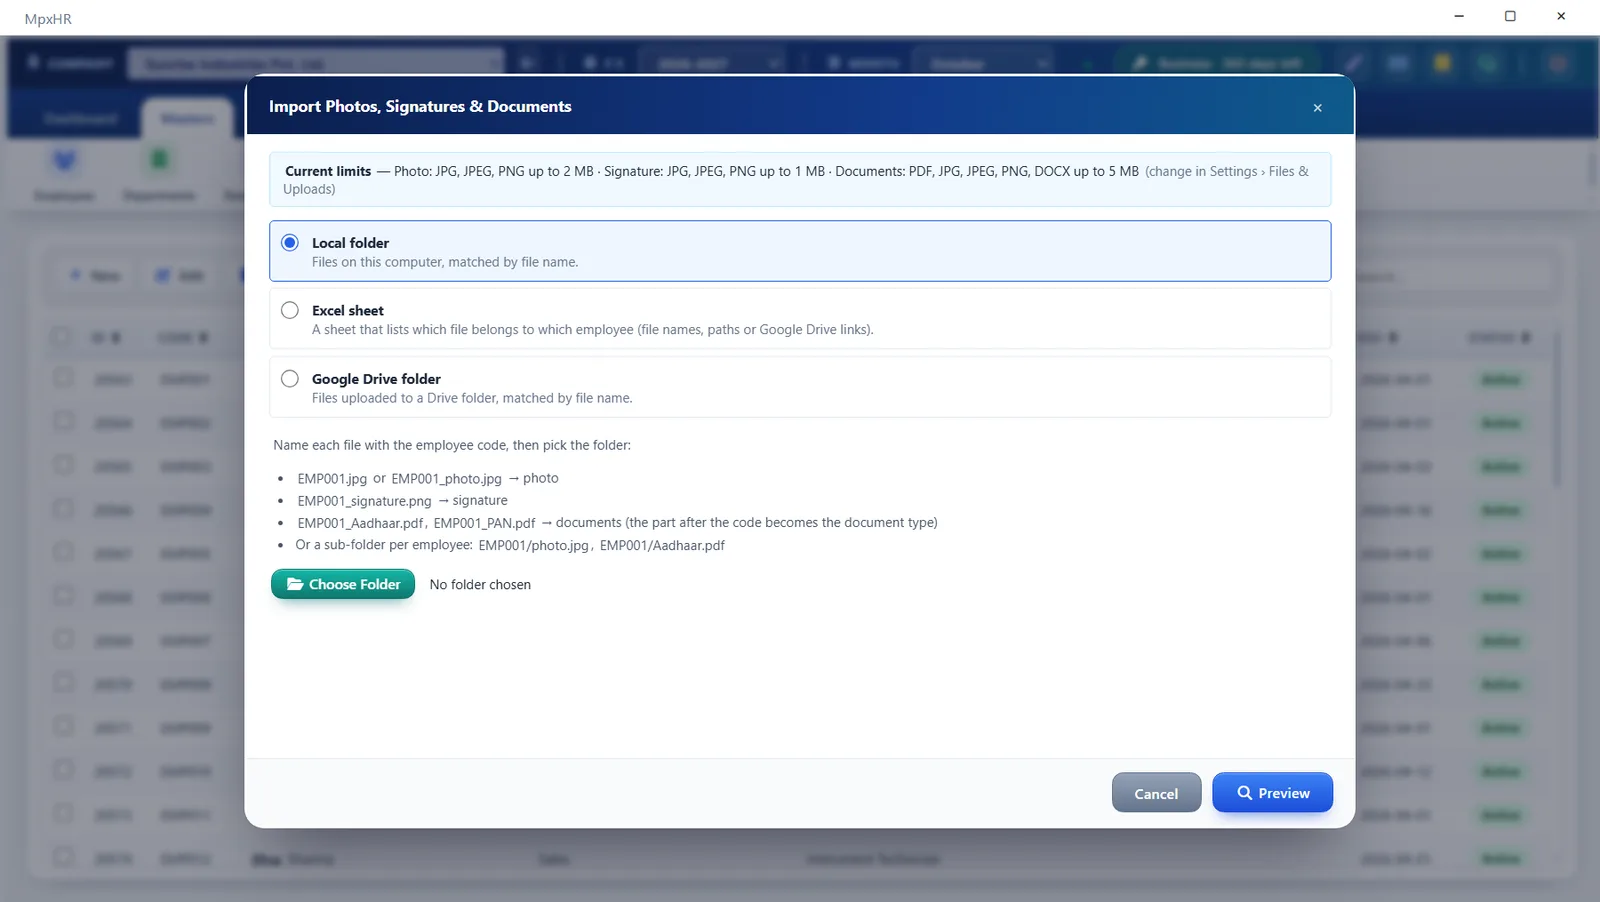
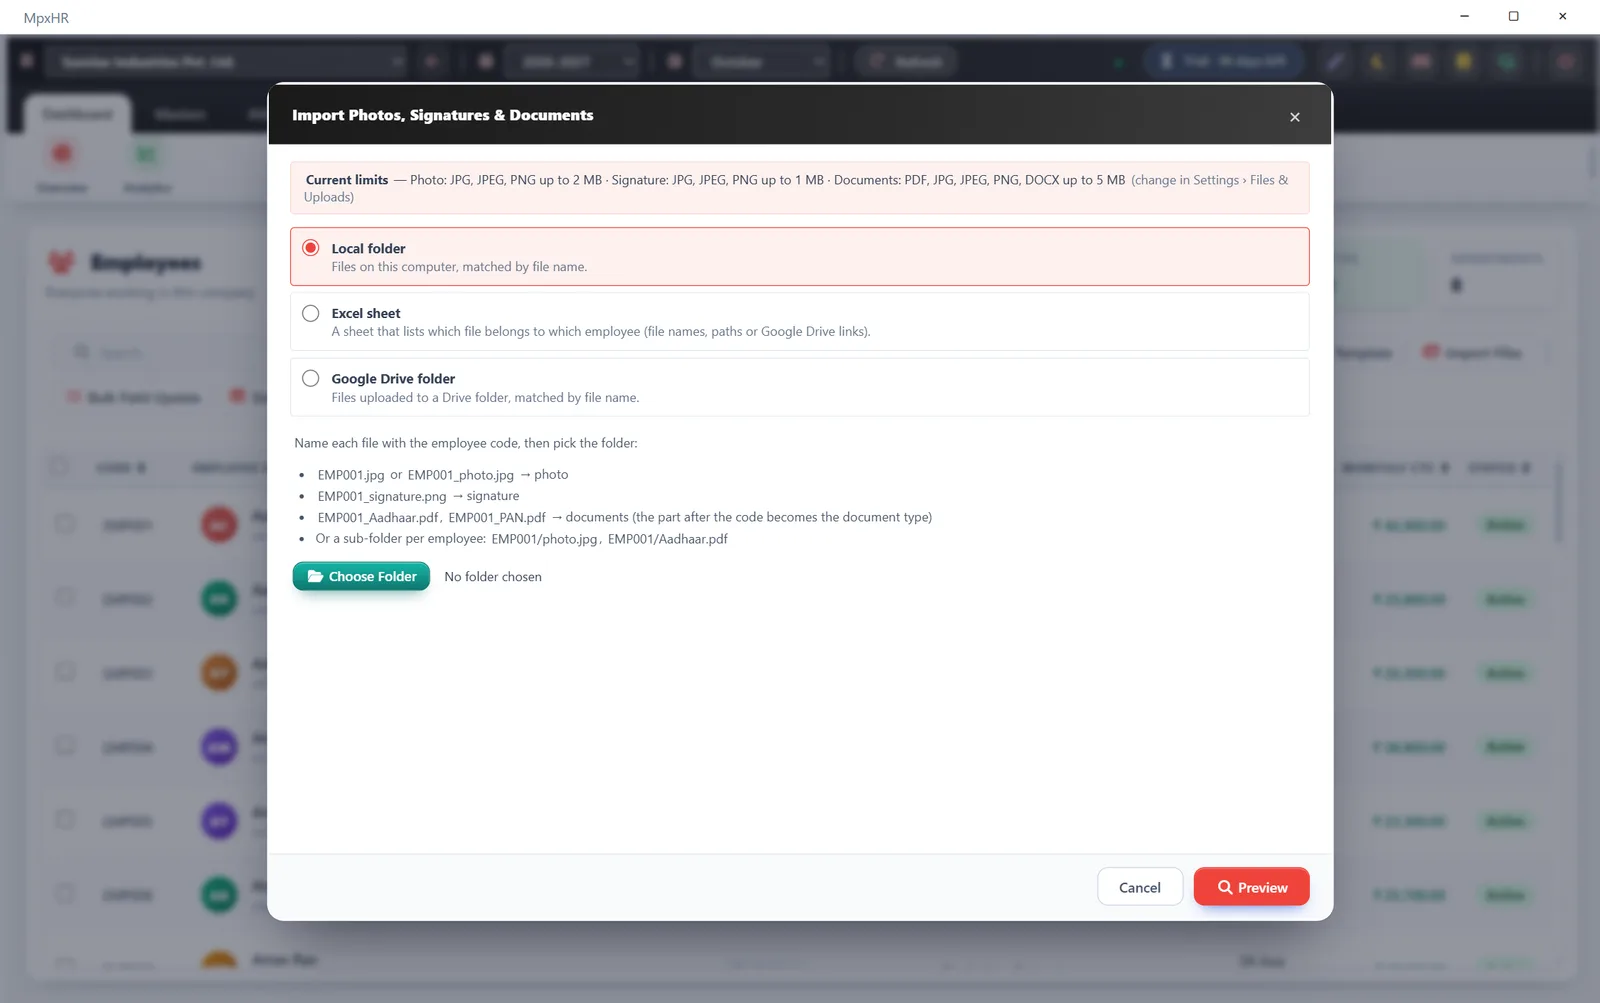
Website: home page shows the new-look screenshots, new social preview image

diff --git a/index.html b/index.html
@@ -19,7 +19,7 @@
 <div class="tools"><a class="btn sq" href="contact.html">Contact Us</a><a class="btn sq outl" href="download.html">Downloads</a></div>
 </div></header>
 <main id="main"><section class="hero"><div class="wrap grid">
-<div class="hero-img"><img class="shot" src="assets/img/hero.webp" alt="MpxHR dashboard, attendance and analytics screens" width="1800" height="1000"></div>
+<div class="hero-img"><img class="shot" src="assets/img/s03_dashboard.webp" alt="MpxHR dashboard in the new red and charcoal look" width="1440" height="900"></div>
 <div><div class="eyebrow">MpxHR Enterprise &middot; v4.5.0</div>
 <h1><span class="grad" data-i18n="hero.h1a">HR, attendance and payroll,</span><span class="thin" data-i18n="hero.h1b">fully offline</span></h1>
 <p class="lead" data-i18n="hero.lead">MpxHR Enterprise is a modern desktop HR system. Your data stays on your own computer, with no monthly cloud fee.</p>
@@ -35,9 +35,9 @@
 <p class="center" style="margin-top:26px"><a class="btn alt" href="features.html"><span data-i18n="cta.features">See all features</span> <svg class="ic " viewBox="0 0 24 24" fill="none" stroke="currentColor" stroke-width="2" stroke-linecap="round" stroke-linejoin="round" aria-hidden="true"><path d="M5 12h14M12 5l7 7-7 7"/></svg></a></p>
 </div></section>
 <section class="s"><div class="wrap">
-<div class="split"><div><div class="eyebrow">Dashboard &amp; analytics</div><h2>See your whole workforce at a glance</h2><p class="muted">Live headcount, attendance, payroll and department charts for every company, with a clean look that is easy to read.</p><ul class="ticks"><li><svg class="ic " viewBox="0 0 24 24" fill="none" stroke="currentColor" stroke-width="2" stroke-linecap="round" stroke-linejoin="round" aria-hidden="true"><path d="M20 6L9 17l-5-5"/></svg> Per-company numbers and 3D charts</li><li><svg class="ic " viewBox="0 0 24 24" fill="none" stroke="currentColor" stroke-width="2" stroke-linecap="round" stroke-linejoin="round" aria-hidden="true"><path d="M20 6L9 17l-5-5"/></svg> Attendance trends and department mix</li><li><svg class="ic " viewBox="0 0 24 24" fill="none" stroke="currentColor" stroke-width="2" stroke-linecap="round" stroke-linejoin="round" aria-hidden="true"><path d="M20 6L9 17l-5-5"/></svg> Payroll cost summaries</li></ul></div><img src="assets/img/tilt_s04_analytics_R.webp" alt="MpxHR analytics dashboard" loading="lazy" ></div>
-<div class="split rev"><div><div class="eyebrow">Payroll</div><h2>Payroll you can trust, payslips you can be proud of</h2><p class="muted">Flexible salary heads, PF, ESI, TDS and loan EMIs are calculated from attendance. Design your own payslip layout and email it to every employee.</p><ul class="ticks"><li><svg class="ic " viewBox="0 0 24 24" fill="none" stroke="currentColor" stroke-width="2" stroke-linecap="round" stroke-linejoin="round" aria-hidden="true"><path d="M20 6L9 17l-5-5"/></svg> Any number of earning and deduction heads</li><li><svg class="ic " viewBox="0 0 24 24" fill="none" stroke="currentColor" stroke-width="2" stroke-linecap="round" stroke-linejoin="round" aria-hidden="true"><path d="M20 6L9 17l-5-5"/></svg> Bulk edit one head for many employees</li><li><svg class="ic " viewBox="0 0 24 24" fill="none" stroke="currentColor" stroke-width="2" stroke-linecap="round" stroke-linejoin="round" aria-hidden="true"><path d="M20 6L9 17l-5-5"/></svg> Drag-and-drop Payslip Designer</li></ul></div><img src="assets/img/tilt_s13_payslip_designer_L.webp" alt="MpxHR payslip designer" loading="lazy" ></div>
-<div class="split"><div><div class="eyebrow">Photos &amp; documents</div><h2>Bring in photos, signatures and documents in bulk</h2><p class="muted">Upload from a folder, an Excel sheet or Google Drive, with a preview first and size and file-type limits that you set.</p><ul class="ticks"><li><svg class="ic " viewBox="0 0 24 24" fill="none" stroke="currentColor" stroke-width="2" stroke-linecap="round" stroke-linejoin="round" aria-hidden="true"><path d="M20 6L9 17l-5-5"/></svg> Matched automatically by employee code</li><li><svg class="ic " viewBox="0 0 24 24" fill="none" stroke="currentColor" stroke-width="2" stroke-linecap="round" stroke-linejoin="round" aria-hidden="true"><path d="M20 6L9 17l-5-5"/></svg> Skipped files are listed with the reason</li></ul></div><img src="assets/img/tilt_s08_import_files_preview_R.webp" alt="Bulk file import preview" loading="lazy" ></div>
+<div class="split"><div><div class="eyebrow">Dashboard &amp; analytics</div><h2>See your whole workforce at a glance</h2><p class="muted">Live headcount, attendance, payroll and department charts for every company, with a clean look that is easy to read.</p><ul class="ticks"><li><svg class="ic " viewBox="0 0 24 24" fill="none" stroke="currentColor" stroke-width="2" stroke-linecap="round" stroke-linejoin="round" aria-hidden="true"><path d="M20 6L9 17l-5-5"/></svg> Per-company numbers and 3D charts</li><li><svg class="ic " viewBox="0 0 24 24" fill="none" stroke="currentColor" stroke-width="2" stroke-linecap="round" stroke-linejoin="round" aria-hidden="true"><path d="M20 6L9 17l-5-5"/></svg> Attendance trends and department mix</li><li><svg class="ic " viewBox="0 0 24 24" fill="none" stroke="currentColor" stroke-width="2" stroke-linecap="round" stroke-linejoin="round" aria-hidden="true"><path d="M20 6L9 17l-5-5"/></svg> Payroll cost summaries</li></ul></div><img src="assets/img/s04_analytics.webp" alt="MpxHR analytics dashboard" loading="lazy" ></div>
+<div class="split rev"><div><div class="eyebrow">Payroll</div><h2>Payroll you can trust, payslips you can be proud of</h2><p class="muted">Flexible salary heads, PF, ESI, TDS and loan EMIs are calculated from attendance. Design your own payslip layout and email it to every employee.</p><ul class="ticks"><li><svg class="ic " viewBox="0 0 24 24" fill="none" stroke="currentColor" stroke-width="2" stroke-linecap="round" stroke-linejoin="round" aria-hidden="true"><path d="M20 6L9 17l-5-5"/></svg> Any number of earning and deduction heads</li><li><svg class="ic " viewBox="0 0 24 24" fill="none" stroke="currentColor" stroke-width="2" stroke-linecap="round" stroke-linejoin="round" aria-hidden="true"><path d="M20 6L9 17l-5-5"/></svg> Bulk edit one head for many employees</li><li><svg class="ic " viewBox="0 0 24 24" fill="none" stroke="currentColor" stroke-width="2" stroke-linecap="round" stroke-linejoin="round" aria-hidden="true"><path d="M20 6L9 17l-5-5"/></svg> Drag-and-drop Payslip Designer</li></ul></div><img src="assets/img/s13_payslip_designer.webp" alt="MpxHR payslip designer" loading="lazy" ></div>
+<div class="split"><div><div class="eyebrow">Photos &amp; documents</div><h2>Bring in photos, signatures and documents in bulk</h2><p class="muted">Upload from a folder, an Excel sheet or Google Drive, with a preview first and size and file-type limits that you set.</p><ul class="ticks"><li><svg class="ic " viewBox="0 0 24 24" fill="none" stroke="currentColor" stroke-width="2" stroke-linecap="round" stroke-linejoin="round" aria-hidden="true"><path d="M20 6L9 17l-5-5"/></svg> Matched automatically by employee code</li><li><svg class="ic " viewBox="0 0 24 24" fill="none" stroke="currentColor" stroke-width="2" stroke-linecap="round" stroke-linejoin="round" aria-hidden="true"><path d="M20 6L9 17l-5-5"/></svg> Skipped files are listed with the reason</li></ul></div><img src="assets/img/s08a_import_files_sources.webp" alt="Bulk file import preview" loading="lazy" ></div>
 </div></section>
 <section class="s alt"><div class="wrap">
 <div class="sec-head"><h2 data-i18n="home.how.h">Up and running in three steps</h2></div>

diff --git a/tests/selftest.test.js b/tests/selftest.test.js
@@ -30,7 +30,7 @@ test('an untouched copy of the site passes (baseline)', () => assert.equal(runOn
 const BREAKS = {
   'a missing stylesheet': d => fs.rmSync(path.join(d, 'assets/site.css')),
   'a broken internal link': d => edit(d, 'index.html', h => h.replace('href="pricing.html"', 'href="no-such-page.html"')),
-  'a missing image': d => edit(d, 'index.html', h => h.replace('assets/img/hero.webp', 'assets/img/gone.webp')),
+  'a missing image': d => edit(d, 'index.html', h => h.replace('assets/img/s03_dashboard.webp', 'assets/img/gone.webp')),
   'a footer showing another version': d => edit(d, 'index.html', h => h.replace(/(class="copy">[\s\S]*?v)\d+\.\d+\.\d+/, '$19.9.9')),
   'a download link for another version': d => edit(d, 'download.html', h => h.replace(/\/download\/v\d+\.\d+\.\d+\//, '/download/v1.0.0/')),
   'a page without the viewport tag': d => edit(d, 'contact.html', h => h.replace(/<meta name="viewport"[^>]*>/, '')),

diff --git a/assets/site.css b/assets/site.css
@@ -373,3 +373,5 @@ html,body{overflow-x:hidden}
 @media(max-width:980px){.plans3{grid-template-columns:1fr;max-width:520px}.plans-q{grid-template-columns:1fr;max-width:520px}.qc ul{grid-template-columns:1fr}}
 @media(prefers-reduced-motion:reduce){.pc,.pc:hover{transition:none;transform:none}}
 .pc{padding-top:68px}.pc-off{top:24px}
+/* the home page now shows the real dashboard screenshot instead of the old 3D composition */
+.hero-img img.shot{border-radius:18px;border:1px solid var(--line);box-shadow:0 40px 80px -36px rgba(0,0,0,.6);background:var(--surface)}
